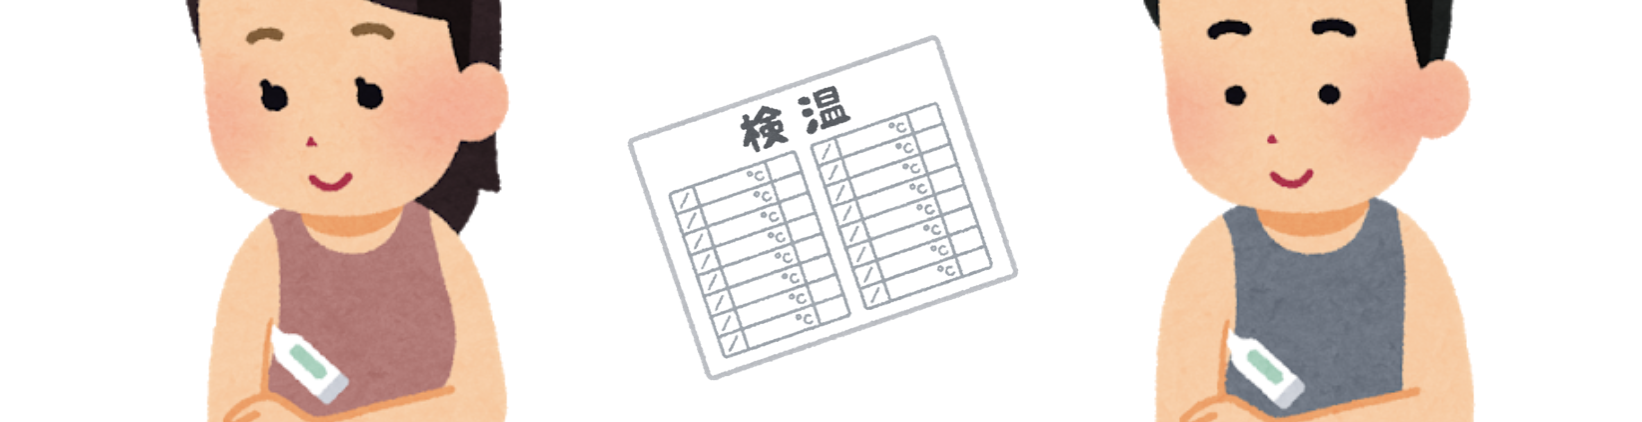
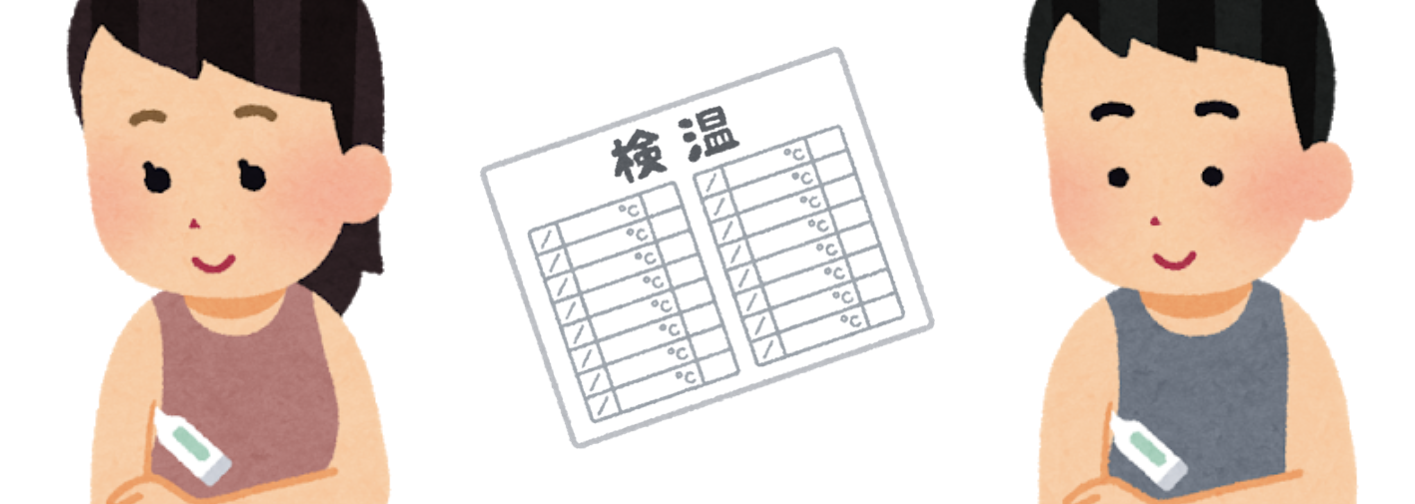
update: TOP画像調整

diff --git a/main/templates/entry.html b/main/templates/entry.html
@@ -7,10 +7,10 @@
     <link rel="stylesheet" href="../static/style.css">
   </head>
   <body>
-    <div class="container" id="top-img-container">
+    <div id="top-container">
       <img id="top-img" src="../static/ken-on-top.png">
     </div>
-
+  
     <div class="module-container">
       <form action="{{ url_for('add_entry') }}" method=post>
         <div class="qa-area">

diff --git a/main/static/style.css b/main/static/style.css
@@ -4,7 +4,10 @@ body {
   background: white;
   font-family: sans-serif;
 }
-#top-img-container {
+#top-container {
+  width:80%;
+  max-width: 700px;
+  margin: 0px auto;
   text-align: center;
 }
 #top-img {
